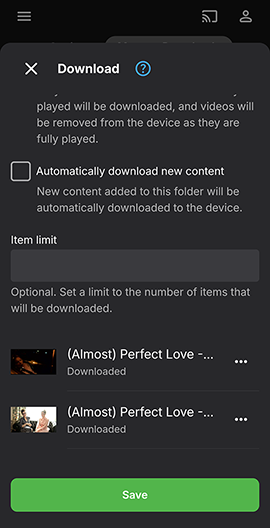
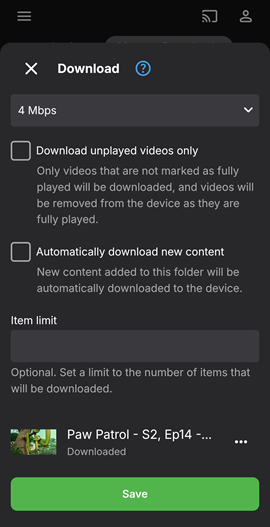
Updates to Downloads articles to add clarifications
Clarifying how non admin users manage downloads and that it is separate for each device.

Mention that the download unwatched episodes only option does not apply to Folder Sync.

Downscale some images and remove duplicate / unused images

diff --git a/Sync-Jobs.md b/Sync-Jobs.md
@@ -6,14 +6,14 @@ legacyUrl: /support/solutions/articles/44001162175-sync-jobs
 
 Download jobs can be for an individual media file download or a whole TV season or show and also possible to download a complete library. Download jobs also include those created for the [Folder Sync](Folder-Sync.md) feature.
 
-Download jobs are created through the **Download** button within the Emby Apps that support downloads and also within context menu **Download to...** button which is available for media libraries contents. The **Download to...** button is also available in the [Emby Web client](Web-Client.md) app. For the various options available, see the [Download Options](Sync.md) article.
+Download jobs are created through the **Download** button within the Emby Apps that support downloads and also within context menu **Download to...** button which is available for media libraries contents. The **Download to...** button is also available in the [Emby Web client](Web-Client.md) app to initiate downloads to other apps and devices for the user account. For the various options available, see the [Download Options](Sync.md) article.
 
 
 ## Downloads Job Settings
 
 When creating sync jobs, you'll be able to configure various settings for the job. The settings that are available will differ depending on the content being synced. See [Download Options](Sync.md) for details. The following lists the various options available.
 
-Some of the settings available are:
+Available settings are:
 
 **Quality**
 
@@ -25,7 +25,7 @@ On some Emby client apps, an option is provided to select a pre-set download pro
 
 **Unwatched Videos Only**
 
-Only unwatched videos will be downloaded or copied, and videos will be removed from the device as they are watched.
+Only unwatched videos will be downloaded or copied, and videos will be removed from the device as they are watched. This option does not apply to [Folder Sync](Folder-Sync.md) download jobs.
 
 **Automatically Download New Content**
 
@@ -41,48 +41,38 @@ All available text-based subtitles are included with download jobs, allowing you
 
 ## Managing Download Jobs
 
-Individual users can manage their own download jobs by opening up the Downloads screen by selecting Downloads within the App Settings or within the Devices section on Emby Web Settings. 
+Individual users can manage their own download jobs on each device. First select Downloads within the App Settings.
 
 ![](images/server/downloadjobs1.png)
 
-and for Emby Web
-
-![](images/server/downloadjobs2.png)
-
-On selecting that screen and the **Manage Downloads** button, the list of download jobs will show
-
-![](images/server/downloadjobs3.png)
-
-Selecting the download job will show the download options and list of items and status
-
-![](images/server/downloadjobs4.png)
-
-and similarly the view of download jobs on Emby Web when opening the Downloads tab
+Then open the **Manage Downloads** tab. This will list the download jobs for that user and device giving the status for each and through 
+the dot menu button, there is an option to edit the download job or delete the download.
 
 ![](images/server/downloadjobs5.png)
 
-and clicking on the **...** button, the download job can be modified
+Choosing **Edit** allows the user to amend the download job options.
 
-![](images/server/downloadjobs6.png)
-
-It is also possible to remove a download 
-
-![](images/server/downloadjobs7.png)
+![](images/server/downloadjobs4.png)
 
 
 ## Cancelling Download Jobs
 
 To cancel a download job, simply click the dot menu next to a job and then select the **Remove Download** option. This will delete the download job as well as all files that have been copied as part of this job.
 
+![](images/server/downloadjobs7.png)
+
 Alternatively it's also possible to cancel individual items within a job by opening the download job edit screen and clicking the dot menu next to a download job item.
+
+![](images/server/downloadjobs9.png)
 
 ## Administrative Management
 
 Administrators can manage all download jobs for all users and devices by opening the server dashboard and navigating to **Downloads** within the **Devices** section of settings.
 
-From here they'll be able to manage all jobs, job settings and job items:
+From here they'll be able to manage all jobs, job settings and job items and edit or remove downloads:
 
-![](images/server/downloadjobs8.png)
+![](images/server/downloadjobs6.png)
+
 
 The conversions and downloads tasks show up in the Emby Server **Scheduled Tasks** settings screen as **Convert Media** and **Transfer Media**.
 

diff --git a/Sync-Introduction.md b/Sync-Introduction.md
@@ -10,7 +10,7 @@ See [Download Options](Sync.md) for full details.
 
 Depending on user access rights and the media type, different options for download are presented within the emby client apps to the users to either download media to the device or to another device or to a target folder. You can choose a specific media file, a complete TV Show or a season or even a whole library for download or convert or copy to a predefined [Folder Sync](Folder-Sync.md) folder. Options are provided to set the required quality and Emby will prepare/convert the media to the format requested, before copying it to the destination.
 
-A popular use of Downloads, is picking a few movies or TV Shows and download this content to a mobile device. This allows them to then playback this media "off line". See [Offline Access](Offline-Access.md).
+A popular use of Downloads, is picking a few movies or TV Shows and download this content to a mobile device. This allows them to then playback this media "offline". See [Offline Access](Offline-Access.md).
 
 When using [Folder Sync](Folder-Sync.md), the media that is copied to the target folder would appear as alternative versions to the original media file.
 

diff --git a/Sync.md b/Sync.md
@@ -99,7 +99,7 @@ Custom quality allows you to set your own desired bitrate:
 
 ![](images/apps/downloads4.png)
 
-For TV shows, there would be additional options for restricting downloads to only unplayed episodes and for auto download of new episodes. There is also an option for setting a limit on the number to download.
+For TV shows, for downloads other than for [Folder Sync](Folder-Sync.md), there would be an option for restricting downloads to only unplayed episodes. There are also further options for auto download of new episodes and for setting a limit on the number to download.
 
 ![](images/apps/downloads5.png)
 
